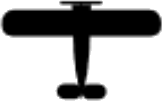
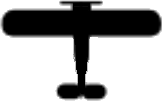
Added a new widget to contain the controls for handling and displaying what status effects are currently active. Need to figure out a better Ux as opposed to selecting from a dropdown and then adding it to a list, with some overriding and replacing others seeimingly arbitrarily

Changed region(s): [[0.4321, 0.3861, 0.5556, 0.8614], [0.5247, 0.3564, 0.6173, 0.5347], [0.4321, 0.0297, 0.5556, 0.0891]]

diff --git a/turn_logger/StatusEffectsInterface.cpp b/turn_logger/StatusEffectsInterface.cpp
@@ -1,0 +1,124 @@
+#include "StatusEffectsInterface.h"
+#include "ui_StatusEffectsInterface.h"
+
+#include "models/GameModel.h"
+
+#include <QStandardItemModel>
+
+#define EFFECT_ROLE Qt::UserRole + 1
+#define GUN_ROLE Qt::UserRole + 2
+
+// Function provided by Parker Coates via stack overflow comment at https://stackoverflow.com/a/62261745
+void setComboBoxItemEnabled(QComboBox * comboBox, int index, bool enabled)
+{
+    auto * model = qobject_cast<QStandardItemModel*>(comboBox->model());
+    assert(model);
+    if(!model) return;
+
+    auto * item = model->item(index);
+    assert(item);
+    if(!item) return;
+    item->setEnabled(enabled);
+}
+
+StatusEffectsInterface::StatusEffectsInterface(QSharedPointer<FilterProxy> crew_proxy, QPersistentModelIndex plane_idx, QWidget *parent)
+    : QWidget(parent)
+    , ui(new Ui::StatusEffectsInterface)
+{
+    ui->setupUi(this);
+
+    // Initiallize each of the combobox elements and initialize the effect structures at the same time as custom data
+    auto addEffectOption = [=](PlaneItem::Effect effect) {
+        ui->effect_selection_cmb->addItem(effect.name, QVariant::fromValue(effect));
+    };
+
+    addEffectOption({PlaneItem::Effect_Rudder_Jam_Left, 2, "Rudder jam (Left - 2 turns)", "Rudder is jammed left for 2 turns."});
+    addEffectOption({PlaneItem::Effect_Rudder_Jam_Left, 3, "Rudder jam (Left - 3 turns)", "Rudder is jammed left for 3 turns."});
+    addEffectOption({PlaneItem::Effect_Rudder_Jam_Right, 2, "Rudder jam (Right - 2 turns)", "Rudder is jammed right for 2 turns."});
+    addEffectOption({PlaneItem::Effect_Rudder_Jam_Right, 2, "Rudder jam (Right - 3 turns)", "Rudder is jammed right for 3 turns."});
+    addEffectOption({PlaneItem::Effect_Fuel_Tank_Hit_3, -1, "Fuel tank hit! (-3 fuel)", "Fuel tank was hit, 3 fuel was lost."});
+    addEffectOption({PlaneItem::Effect_Fuel_Tank_Hit_6, -1, "Fuel tank hit! (-6 fuel)", "Fuel tank was hit, 6 fuel was lost."});
+    addEffectOption({PlaneItem::Effect_Smoking, -1, "Smoking", "Plane is now smoking."});
+    addEffectOption({PlaneItem::Effect_On_Fire, -1, "Fire!", "Plane is now on fire (Take one blue chit of damage each turn until put out)."});
+    addEffectOption({PlaneItem::Effect_No_Restricted_Maneuvers, -1, "No restricted maneuvers", "Cannot perform restricted maneuvers for the duration of the match."});
+    addEffectOption({PlaneItem::Effect_No_Speed_3_or_4, -1, "No speed 3 or 4 maneuvers", "Cannot perform speed 3 or 4 maneuvers for the duration of the match."});
+    addEffectOption({PlaneItem::Effect_Force_Slower_Maneuver, 1, "Must do slower maneuver", "Must perform a slower maneuver next turn."});
+
+    // Iterate over the crew's guns and add them to the dropdown as destructable. Only add them if they're still working!
+    for (int crew_row = 0; crew_row<crew_proxy->rowCount(plane_idx); ++crew_row) {
+        QModelIndex crew_idx = crew_proxy->index(crew_row, 0, plane_idx);
+        for (int gun_row = 0; gun_row<crew_proxy->rowCount(crew_idx); ++gun_row) {
+            QModelIndex gun_idx = crew_proxy->index(gun_row, 0, crew_idx);
+            if (gun_idx.data(Qt::UserRole).toInt() == BaseItem::Plane_Armaments_Item_Type &&
+                !gun_idx.sibling(gun_row, PlaneArmamentsItem::Plane_Armaments_Gun_Destroyed).data().toBool()) {
+                ui->effect_selection_cmb->addItem(QString("%1 (link %2) was destroyed").arg(gun_idx.data().toString()).arg(gun_row+1), gun_idx);
+            }
+            else if (gun_idx.data(Qt::UserRole).toInt() == BaseItem::Plane_Armaments_Link_Item_Type) {
+                for (int linked_gun_row = 0; linked_gun_row < crew_proxy->rowCount(gun_idx); ++linked_gun_row) {
+                    QModelIndex linked_gun_idx = crew_proxy->index(linked_gun_row, 0, gun_idx);
+                    if (linked_gun_idx.data(Qt::UserRole).toInt() == BaseItem::Plane_Armaments_Item_Type &&
+                        !linked_gun_idx.sibling(linked_gun_row, PlaneArmamentsItem::Plane_Armaments_Gun_Destroyed).data().toBool()) {
+                        ui->effect_selection_cmb->addItem(QString("%1 (link %2) was destroyed").arg(linked_gun_idx.data().toString()).arg(linked_gun_row+1), linked_gun_idx);
+                    }
+                }
+            }
+        }
+    }
+
+    connect(ui->add_effect_btn, &QPushButton::clicked, this, &StatusEffectsInterface::addStatusEffectToList);
+}
+
+StatusEffectsInterface::~StatusEffectsInterface()
+{
+    delete ui;
+}
+
+void StatusEffectsInterface::updateStatusList()
+{
+
+}
+
+void StatusEffectsInterface::addStatusEffectToList()
+{
+    // Create an empty effect struct, this will be extracted or constructed after determining if it's a gun to pop
+    PlaneItem::Effect effect;
+
+    QVariant selected_effect_data = ui->effect_selection_cmb->currentData();
+    // If we can convert it, we know it's some other effect
+    if (selected_effect_data.canConvert<PlaneItem::Effect>()) {
+        effect = selected_effect_data.value<PlaneItem::Effect>();
+    }
+    // If we can't convert it to an Effect, we assume it's a QModelIndex of a gun to destroy. First populate an Effect object that will get stored for viewing.
+    else {
+        effect.id = PlaneItem::Effect_Gun_Destroyed;
+        effect.name = ui->effect_selection_cmb->currentText();
+        effect.desc = "This gun was destroyed, it cannot be used for the remainder of the match.";
+        effect.remaining_turns = -1; // -1 indicates perpetual
+    }
+
+    // If the effect can be overridden, remove the existing one and insert the new one
+    removeStatusEffectFromList(effect);
+
+    // Create a new list widget item to populate. Assigning the listwidget as the parent auto inserts it
+    QListWidgetItem* item = new QListWidgetItem(effect.name, ui->effects_list);
+    item->setData(EFFECT_ROLE, QVariant::fromValue(effect));
+
+    // Extra logic for if we're popping a gun
+    if (effect.id == PlaneItem::Effect_Gun_Destroyed) {
+        setComboBoxItemEnabled(ui->effect_selection_cmb, ui->effect_selection_cmb->currentIndex(), false);
+        item->setData(GUN_ROLE, selected_effect_data); // Store the gun index
+    }
+
+    // Set the tooltip, including the remaining turns (if it isn't perpetual)
+    item->setToolTip(effect.desc + (effect.remaining_turns == -1 ? "" : QString(" - (%1 turns remain)").arg(effect.remaining_turns)));
+}
+
+void StatusEffectsInterface::removeStatusEffectFromList(PlaneItem::Effect effect)
+{
+    for (int i=0; i<ui->effects_list->count(); ++i) {
+        if (ui->effects_list->item(i)->data(EFFECT_ROLE).value<PlaneItem::Effect>() == effect) {
+            delete ui->effects_list->takeItem(i);
+            return;
+        }
+    }
+}

diff --git a/models/GameModelItems.h b/models/GameModelItems.h
@@ -49,7 +49,9 @@ public:
         Effect_Rudder_Jam_Right,
         Effect_Fuel_Tank_Hit_3,
         Effect_Fuel_Tank_Hit_6,
-        Effect_Gun_Destroyed
+        Effect_Gun_Destroyed,
+        Effect_Smoking,
+        Effect_On_Fire
     };
 
     struct Effect {
@@ -59,14 +61,22 @@ public:
         QString desc;
 
         bool operator==(const Effect &e) const{
+            // All jams are considered the same so that we can override any jam with another easily
             if ((id == Effect_Rudder_Jam_Left || id == Effect_Rudder_Jam_Right) &&
                 (e.id == Effect_Rudder_Jam_Left || e.id == Effect_Rudder_Jam_Right)) {
                 return true;
             }
-            // Guns cannot be destroyed twice and so won't show as an option
-            // Multiple guns may appear because they may share the same name (linked twin spandaus for instance)
-            // Fuel tank hits should also be allowed to be done multiple times
-            else if (id == Effect_Gun_Destroyed || id == Effect_Fuel_Tank_Hit_3 || id == Effect_Fuel_Tank_Hit_6) {
+            // Fire and Smoking are equivalent for purposes of this list
+            else if ((id == Effect_Smoking || id == Effect_On_Fire) &&
+                     (e.id == Effect_On_Fire || e.id == Effect_Smoking)) {
+                return true;
+            }
+            // Guns cannot be destroyed twice but we may have multiple so we need to check their name as well
+            else if (id == Effect_Gun_Destroyed) {
+                return name == e.name;
+            }
+            // Fuel tank hits should be allowed to be done multiple times
+            else if (id == Effect_Fuel_Tank_Hit_3 || id == Effect_Fuel_Tank_Hit_6) {
                 return false;
             }
             return id == e.id;

diff --git a/turn_logger/TurnTrackerDialog.cpp b/turn_logger/TurnTrackerDialog.cpp
@@ -4,7 +4,7 @@
 #include "CEManeuvers.h"
 #include "CrewControls.h"
 #include "GunRotationControl.h"
-#include "StatusViewerDlg.h"
+#include "StatusEffectsInterface.h"
 #include "models/GameModel.h"
 #include "models/GameModelItems.h"
 #include "graphics/ManeuverScene.h"
@@ -80,11 +80,8 @@ TurnTrackerDialog::TurnTrackerDialog(GameModel* game_model, QWidget *parent) :
         }
     }
 
+    ui->status_effects_grpbox->layout()->addWidget(new StatusEffectsInterface(crew_proxy, plane_filtered_idx, ui->status_effects_grpbox));
     connect(maneuver_scene, &ManeuverScene::maneuverClicked, this, &TurnTrackerDialog::handleManeuverSelection);
-    connect(ui->openStatusViewerBtn, &QPushButton::clicked, this, [&](){
-        StatusViewerDlg dlg(crew_proxy, crew_proxy->mapFromSource(plane_idx));
-        dlg.exec();
-    });
 }
 
 TurnTrackerDialog::~TurnTrackerDialog()

diff --git a/turn_logger/StatusEffectsInterface.h b/turn_logger/StatusEffectsInterface.h
@@ -1,0 +1,32 @@
+#ifndef STATUSEFFECTSINTERFACE_H
+#define STATUSEFFECTSINTERFACE_H
+
+#include <QWidget>
+#include <QPersistentModelIndex>
+#include "models/GameModelItems.h"
+
+namespace Ui {
+class StatusEffectsInterface;
+}
+
+class FilterProxy;
+class StatusEffectsInterface : public QWidget
+{
+    Q_OBJECT
+
+public:
+    explicit StatusEffectsInterface(QSharedPointer<FilterProxy> crew_proxy, QPersistentModelIndex plane_idx, QWidget *parent = nullptr);
+    ~StatusEffectsInterface();
+    void updateStatusList();
+
+private slots:
+    void addStatusEffectToList();
+    void removeStatusEffectFromList(PlaneItem::Effect effect);
+
+private:
+    Ui::StatusEffectsInterface *ui;
+    QSharedPointer<FilterProxy> crew_proxy;
+    QPersistentModelIndex plane_idx;
+};
+
+#endif // STATUSEFFECTSINTERFACE_H
